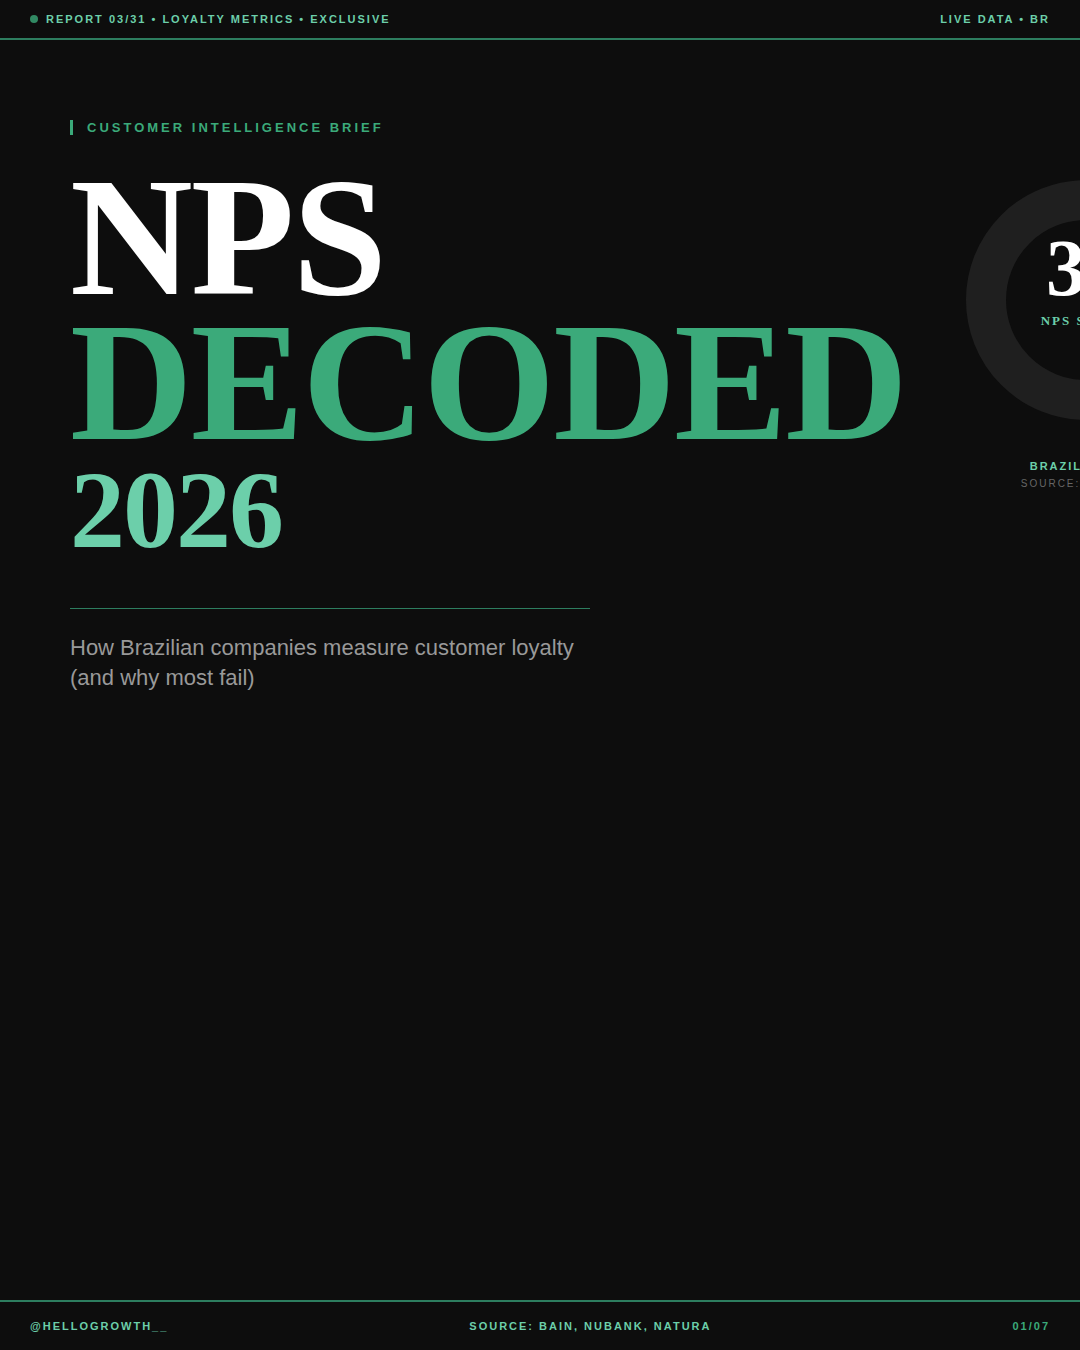
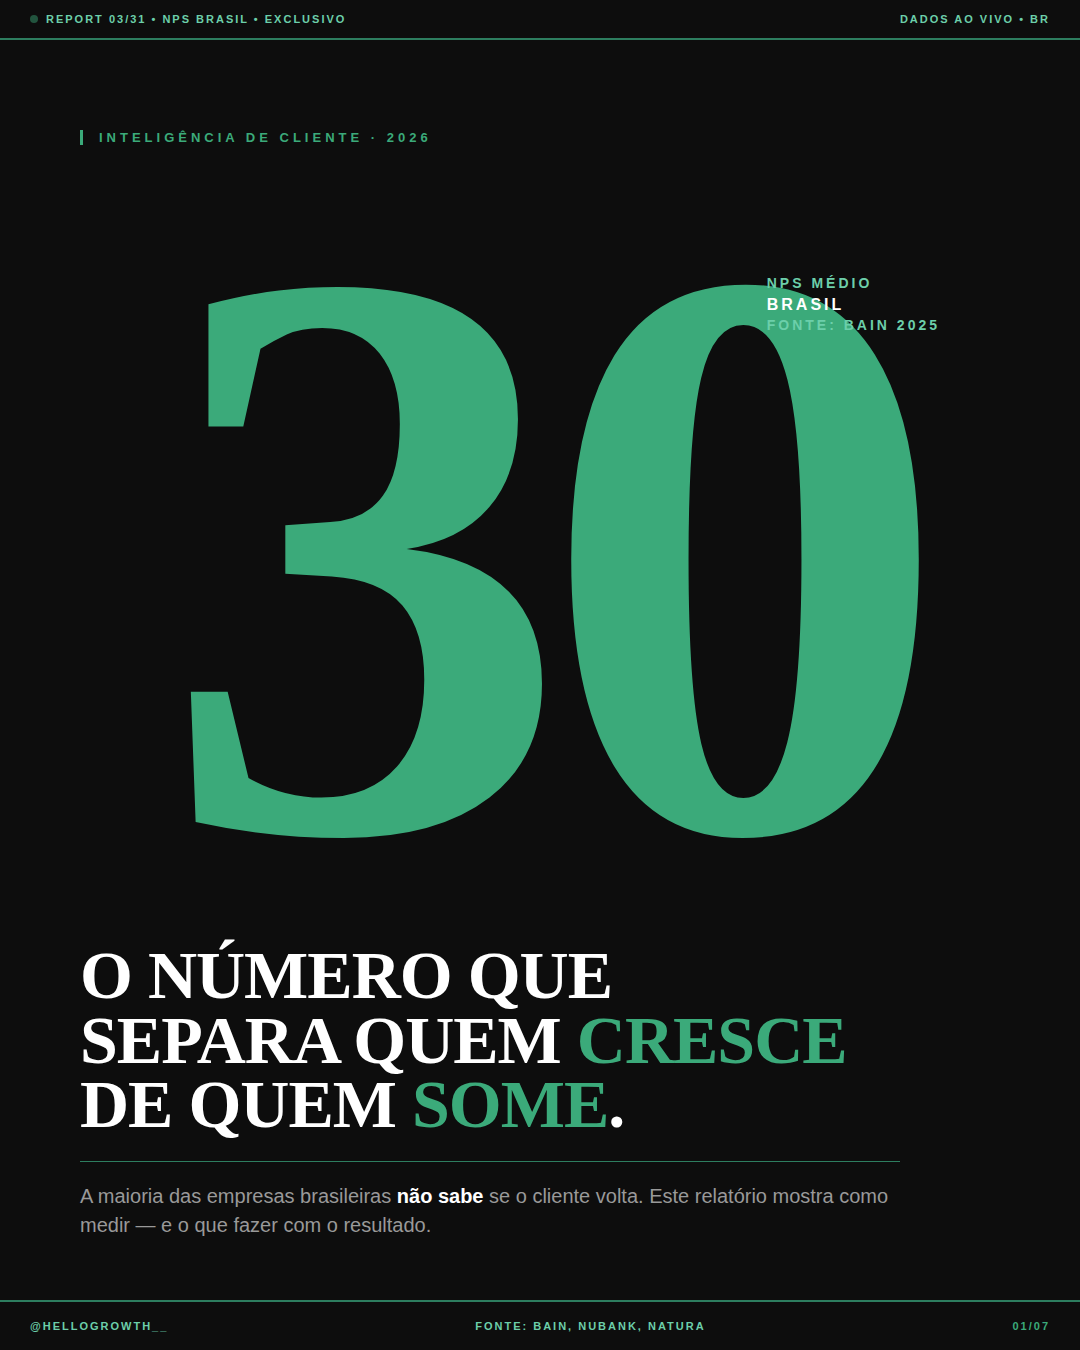
Redesign cover (giant 30 + PT headline) and translate card 07 to PT

diff --git a/squads/social-content/output/2026-03-31/slides/card-01-cover.html b/squads/social-content/output/2026-03-31/slides/card-01-cover.html
@@ -3,56 +3,44 @@
 <head>
 <meta charset="UTF-8">
 <title>Card 01 - Cover</title>
-
 <style>
   *{margin:0;padding:0;box-sizing:border-box}
   html,body{background:#0d0d0d;font-family:Arial,sans-serif;color:#fff}
   .card{width:1080px;height:1350px;background:#0d0d0d;position:relative;display:flex;flex-direction:column;overflow:hidden}
-  .ticker{height:40px;background:#0d0d0d;border-bottom:2px solid #2D7D5F;display:flex;align-items:center;justify-content:space-between;padding:0 30px;font-family:Arial;font-size:11px;font-weight:600;letter-spacing:2px;color:#6CCFAA;text-transform:uppercase}
+  .ticker{height:40px;background:#0d0d0d;border-bottom:2px solid #2D7D5F;display:flex;align-items:center;justify-content:space-between;padding:0 30px;font-size:11px;font-weight:600;letter-spacing:2px;color:#6CCFAA;text-transform:uppercase}
   .ticker .dot{display:inline-block;width:8px;height:8px;background:#3BAA7A;border-radius:50%;margin-right:8px;animation:pulse 2s infinite}
   @keyframes pulse{0%,100%{opacity:1}50%{opacity:.4}}
-  .main{flex:1;display:flex;padding:80px 70px 40px;gap:40px}
-  .left{flex:1.4}
-  .right{flex:1;display:flex;flex-direction:column;align-items:center;justify-content:flex-start;padding-top:40px}
-  .label-top{font-family:Arial;font-size:13px;font-weight:700;color:#3BAA7A;letter-spacing:3px;text-transform:uppercase;margin-bottom:30px;border-left:3px solid #3BAA7A;padding-left:14px}
-  h1{font-family:Impact, 'Arial Black';font-weight:900;font-size:170px;line-height:.85;color:#fff;letter-spacing:-2px}
-  h1 .green{color:#3BAA7A}
-  h1 .year{color:#6CCFAA;font-size:110px;display:block;margin-top:10px}
-  .subtitle{font-family:Arial;font-size:22px;font-weight:400;color:#999;line-height:1.4;margin-top:50px;max-width:520px;border-top:1px solid #2D7D5F;padding-top:24px}
-  .donut-label{font-family:Arial;font-size:11px;font-weight:700;color:#6CCFAA;letter-spacing:2px;margin-top:20px;text-align:center}
-  .donut-big{font-family:Impact, 'Arial Black';font-weight:900;font-size:54px;color:#3BAA7A;text-align:center;line-height:1}
-  .donut-sub{font-family:Arial;font-size:10px;color:#666;letter-spacing:2px;text-align:center;margin-top:6px}
-  .footer{height:50px;background:#0d0d0d;border-top:2px solid #2D7D5F;display:flex;align-items:center;justify-content:space-between;padding:0 30px;font-family:Arial;font-size:11px;font-weight:600;letter-spacing:2px;color:#6CCFAA;text-transform:uppercase}
+  .main{flex:1;padding:90px 80px 60px;display:flex;flex-direction:column;justify-content:space-between;position:relative}
+  .top-label{font-size:13px;font-weight:700;color:#3BAA7A;letter-spacing:4px;text-transform:uppercase;border-left:3px solid #3BAA7A;padding-left:16px}
+  .numero{font-family:Impact, 'Arial Black';font-weight:900;font-size:820px;line-height:.78;color:#3BAA7A;letter-spacing:-30px;text-align:center;margin:-40px 0 -60px;position:relative}
+  .numero .mini{position:absolute;top:40px;right:60px;font-family:Arial;font-size:14px;font-weight:700;color:#6CCFAA;letter-spacing:3px;line-height:1.4;text-align:left;text-transform:uppercase}
+  .numero .mini b{color:#fff;display:block;font-size:16px}
+  .bottom{position:relative;z-index:2}
+  .headline{font-family:Impact, 'Arial Black';font-weight:900;font-size:68px;color:#fff;line-height:.95;text-transform:uppercase;margin-bottom:24px;letter-spacing:-1px}
+  .headline span{color:#3BAA7A}
+  .desc{font-family:Arial;font-size:20px;color:#999;line-height:1.45;max-width:820px;border-top:1px solid #2D7D5F;padding-top:20px}
+  .desc strong{color:#fff;font-weight:700}
+  .footer{height:50px;background:#0d0d0d;border-top:2px solid #2D7D5F;display:flex;align-items:center;justify-content:space-between;padding:0 30px;font-size:11px;font-weight:600;letter-spacing:2px;color:#6CCFAA;text-transform:uppercase}
   .footer .page{color:#3BAA7A;font-weight:800}
 </style>
 </head>
 <body>
 <div class="card">
   <div class="ticker">
-    <span><span class="dot"></span>REPORT 03/31 • LOYALTY METRICS • EXCLUSIVE</span>
-    <span>LIVE DATA • BR</span>
+    <span><span class="dot"></span>REPORT 03/31 • NPS BRASIL • EXCLUSIVO</span>
+    <span>DADOS AO VIVO • BR</span>
   </div>
   <div class="main">
-    <div class="left">
-      <div class="label-top">CUSTOMER INTELLIGENCE BRIEF</div>
-      <h1>NPS<br><span class="green">DECODED</span><span class="year">2026</span></h1>
-      <p class="subtitle">How Brazilian companies measure customer loyalty (and why most fail)</p>
-    </div>
-    <div class="right">
-      <svg width="280" height="280" viewBox="0 0 280 280">
-        <circle cx="140" cy="140" r="100" fill="none" stroke="#1f1f1f" stroke-width="40"/>
-        <circle cx="140" cy="140" r="100" fill="none" stroke="#3BAA7A" stroke-width="40"
-          stroke-dasharray="188.5 628.3" stroke-dashoffset="0" transform="rotate(-90 140 140)"/>
-        <text x="140" y="135" text-anchor="middle" font-family="Barlow Condensed" font-weight="900" font-size="80" fill="#fff">30</text>
-        <text x="140" y="165" text-anchor="middle" font-family="Inter" font-weight="600" font-size="13" fill="#6CCFAA" letter-spacing="2">NPS SCORE</text>
-      </svg>
-      <div class="donut-label">BRAZIL AVG: 30</div>
-      <div class="donut-sub">SOURCE: BAIN 2025</div>
+    <div class="top-label">INTELIGÊNCIA DE CLIENTE · 2026</div>
+    <div class="numero">30<div class="mini">NPS MÉDIO<b>BRASIL</b>FONTE: BAIN 2025</div></div>
+    <div class="bottom">
+      <h1 class="headline">O número que<br>separa quem <span>cresce</span><br>de quem <span>some</span>.</h1>
+      <p class="desc">A maioria das empresas brasileiras <strong>não sabe</strong> se o cliente volta. Este relatório mostra como medir — e o que fazer com o resultado.</p>
     </div>
   </div>
   <div class="footer">
     <span>@HELLOGROWTH__</span>
-    <span>SOURCE: BAIN, NUBANK, NATURA</span>
+    <span>FONTE: BAIN, NUBANK, NATURA</span>
     <span class="page">01/07</span>
   </div>
 </div>

diff --git a/squads/social-content/output/2026-03-31/slides/card-07-cta.html b/squads/social-content/output/2026-03-31/slides/card-07-cta.html
@@ -31,12 +31,12 @@
 <body>
 <div class="card">
   <div class="ticker">
-    <span><span class="dot"></span>REPORT 03/31 • CALL TO ACTION • FINAL</span>
-    <span>END OF BRIEF</span>
+    <span><span class="dot"></span>REPORT 03/31 • CHAMADA PARA AÇÃO • FINAL</span>
+    <span>FIM DO RELATÓRIO</span>
   </div>
   <div class="main">
-    <div class="label">ACTION REQUIRED</div>
-    <h2>Ready to measure<br>your <span>NPS</span>?</h2>
+    <div class="label">AÇÃO NECESSÁRIA</div>
+    <h2>Pronto para medir<br>seu <span>NPS</span>?</h2>
     <div class="sub">A pesquisa leva <strong>30 segundos</strong>. O insight muda seu <strong>próximo trimestre</strong>.</div>
     <div class="cta-box">
       <div class="kicker">&gt; COMECE PELA PERGUNTA</div>
@@ -47,7 +47,7 @@
   </div>
   <div class="footer">
     <span>@HELLOGROWTH__</span>
-    <span>END OF REPORT</span>
+    <span>FIM DO RELATÓRIO</span>
     <span class="page">07/07</span>
   </div>
 </div>
